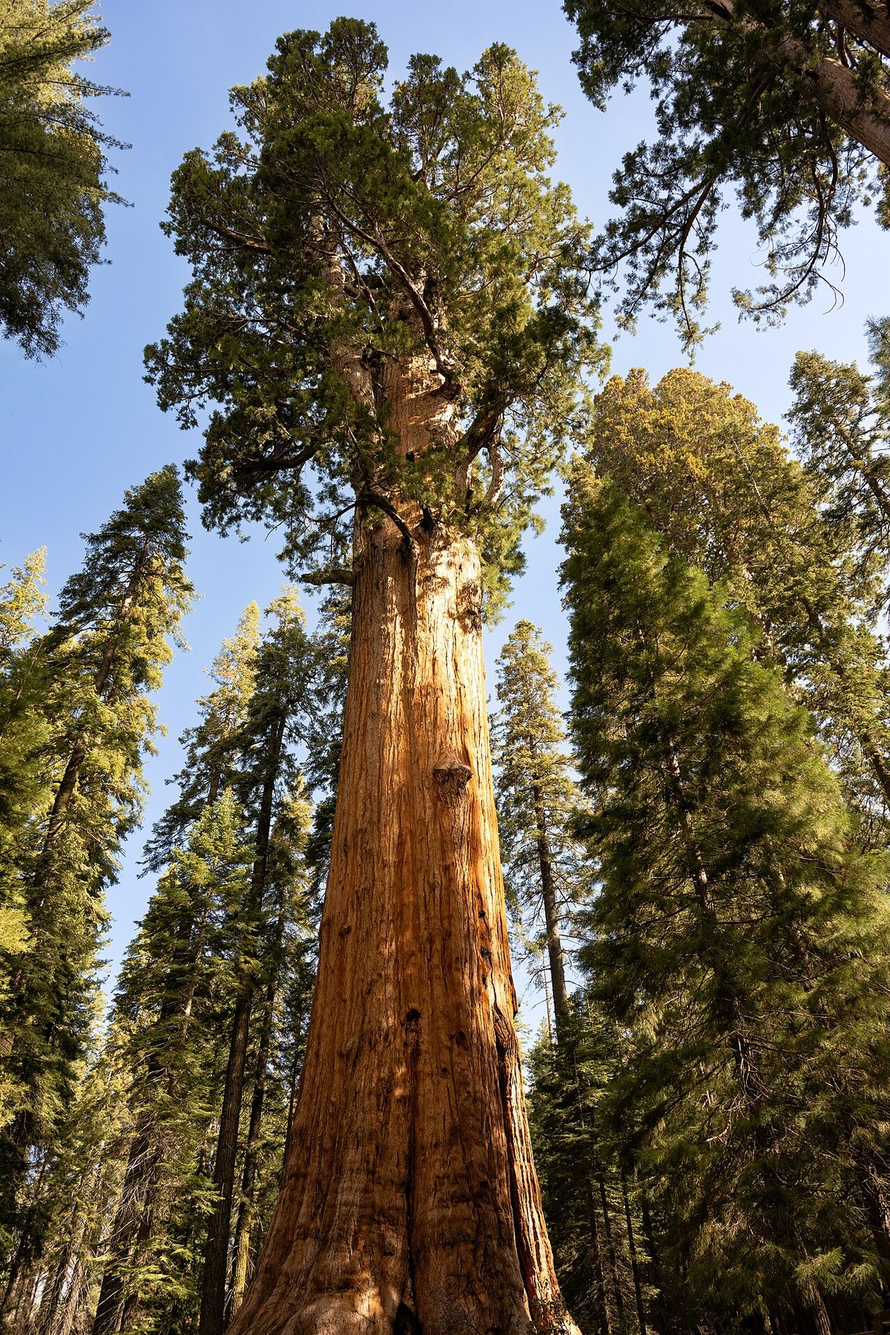
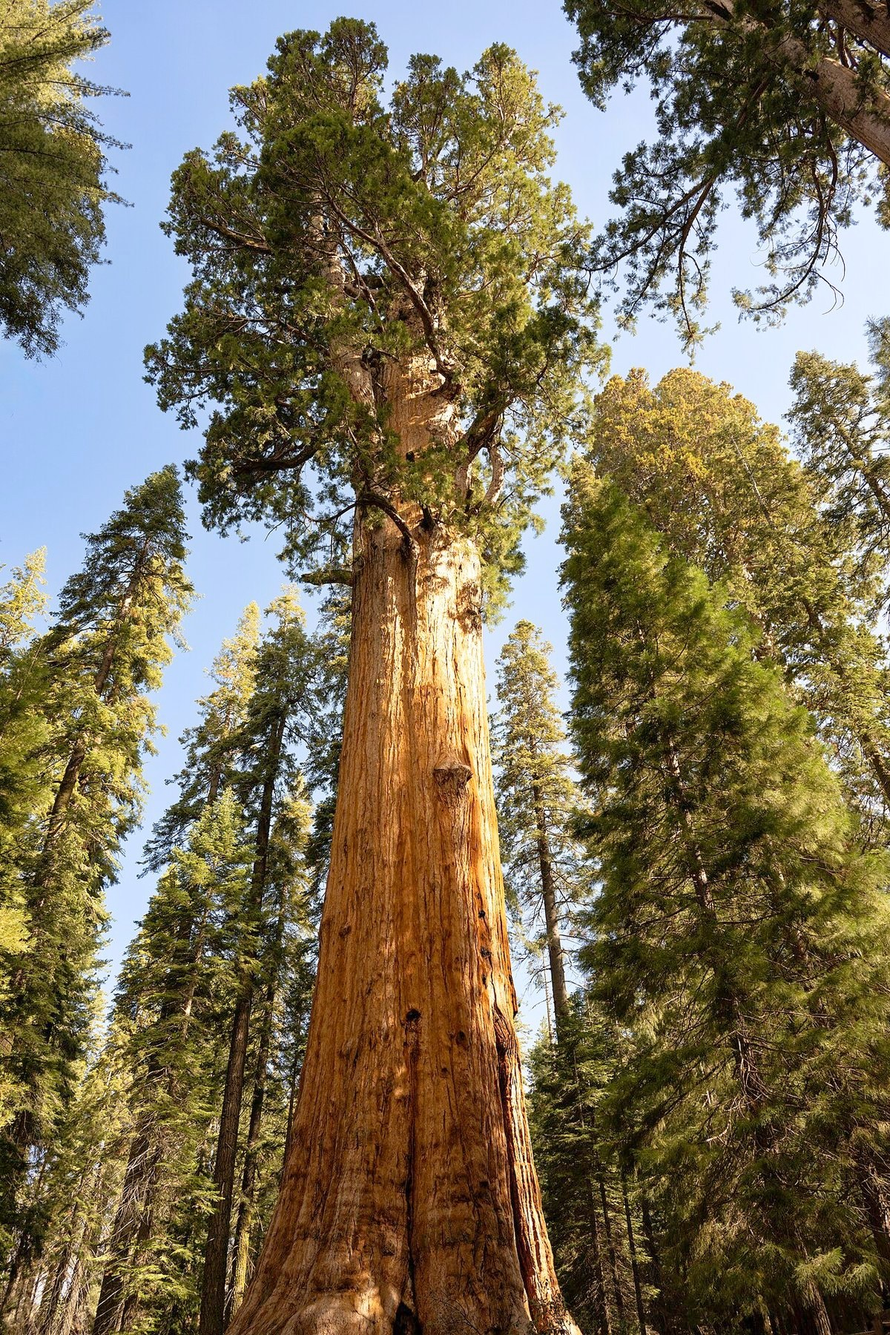
App opening photos lighter: midtones lifted with colour kept (brightness about 90 to 107 of 255), the scrim only behind the words and a little deeper at the foot (Airbnb, AllTrails, Polarsteps) (Hidde, 2026-10-14)

diff --git a/ios/AncientTrees/AncientTrees/Screens/HeroCover.swift b/ios/AncientTrees/AncientTrees/Screens/HeroCover.swift
@@ -41,8 +41,17 @@ struct HeroCover: View {
                 .overlay {
                     // Dark from the middle down, so the words sit on the tree's
                     // own shade rather than on a bar laid over it.
-                    LinearGradient(colors: [.clear, .black.opacity(0.72)],
-                                   startPoint: .center, endPoint: .bottom)
+                    // Lower and lighter since 2026-10-14 (Hidde: "the splash
+                    // photos seem a bit dark"): only behind the words, as
+                    // Airbnb, AllTrails and Polarsteps keep their scrims. It
+                    // started at the middle at 0.72.
+                    // A little deeper at the foot only, so the gold line still
+                    // reads over a light ground (the Itoshima shrine's stairs).
+                    LinearGradient(stops: [
+                        .init(color: .clear, location: 0),
+                        .init(color: .black.opacity(0.45), location: 0.6),
+                        .init(color: .black.opacity(0.68), location: 1),
+                    ], startPoint: UnitPoint(x: 0.5, y: 0.6), endPoint: .bottom)
                 }
                 .overlay(alignment: .bottomLeading) {
                     VStack(alignment: .leading, spacing: 2) {

diff --git a/ios/AncientTrees/AncientTrees/Kit/Heroes.swift b/ios/AncientTrees/AncientTrees/Kit/Heroes.swift
@@ -51,6 +51,9 @@ import UIKit
 //   hero-3  General Sherman, Eric Kilby, CC BY-SA 2.0, via Wikimedia Commons
 //           (seq_001). The licence asks for a VISIBLE credit, so `credit`
 //           below carries it and the cover prints it.
+// All three lifted in the midtones (gamma 0.78, out/tmp/hero_lift.py) on the
+// same day: they measured 87 to 95 of 255 and read dark (Hidde). An
+// adaptation, which CC BY-SA allows under the same licence.
 public enum Heroes {
     public static let names = ["hero-1", "hero-2", "hero-3"]
 
